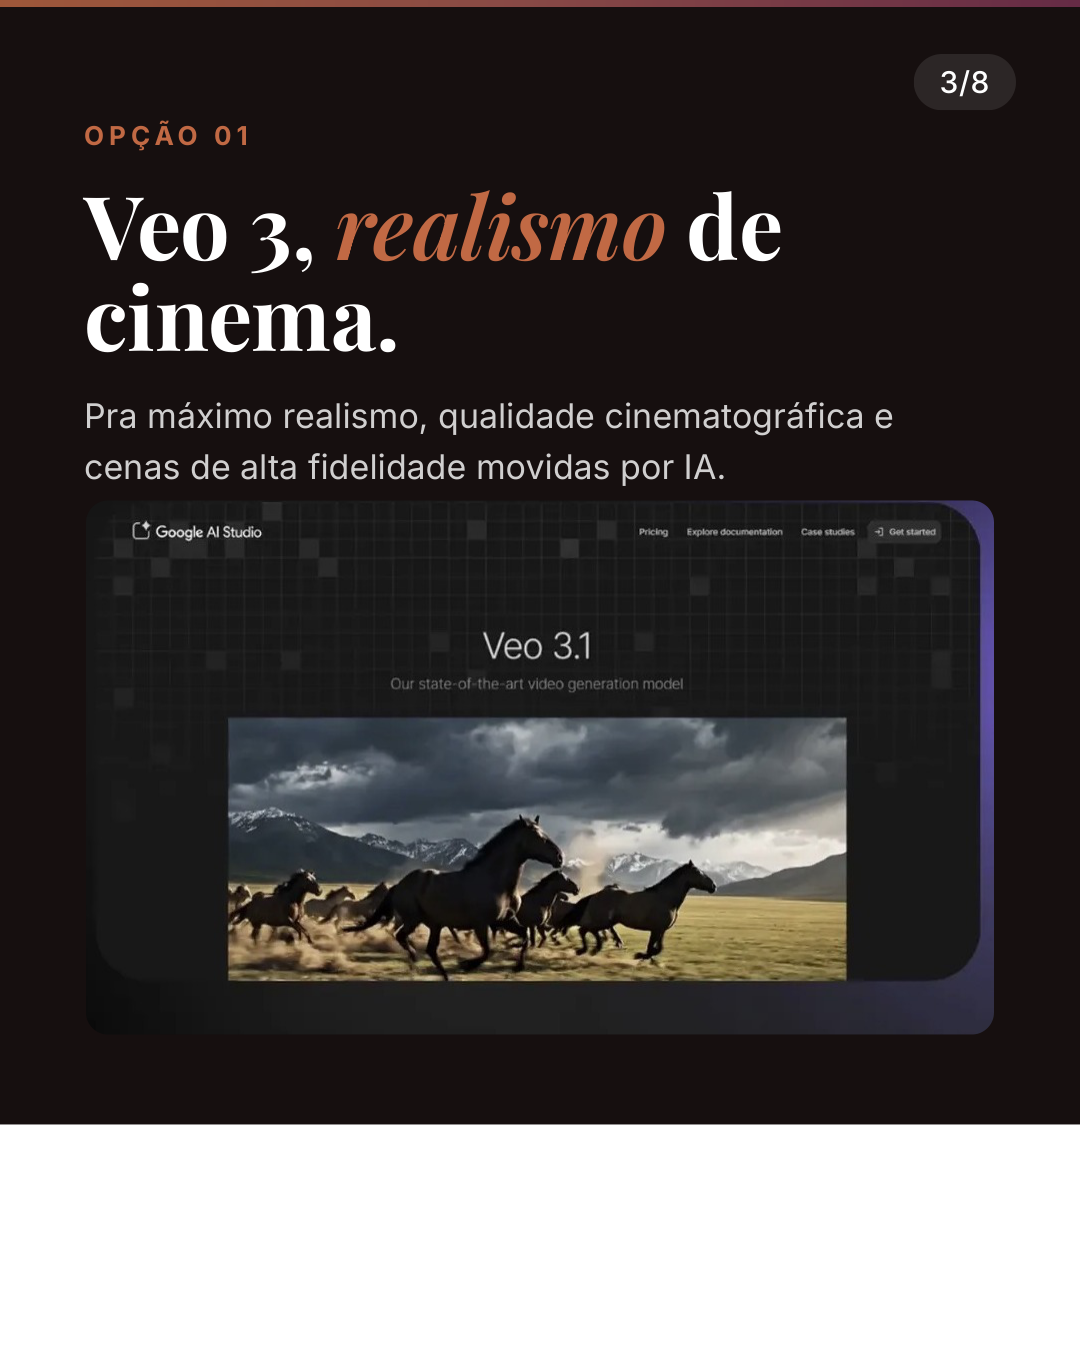
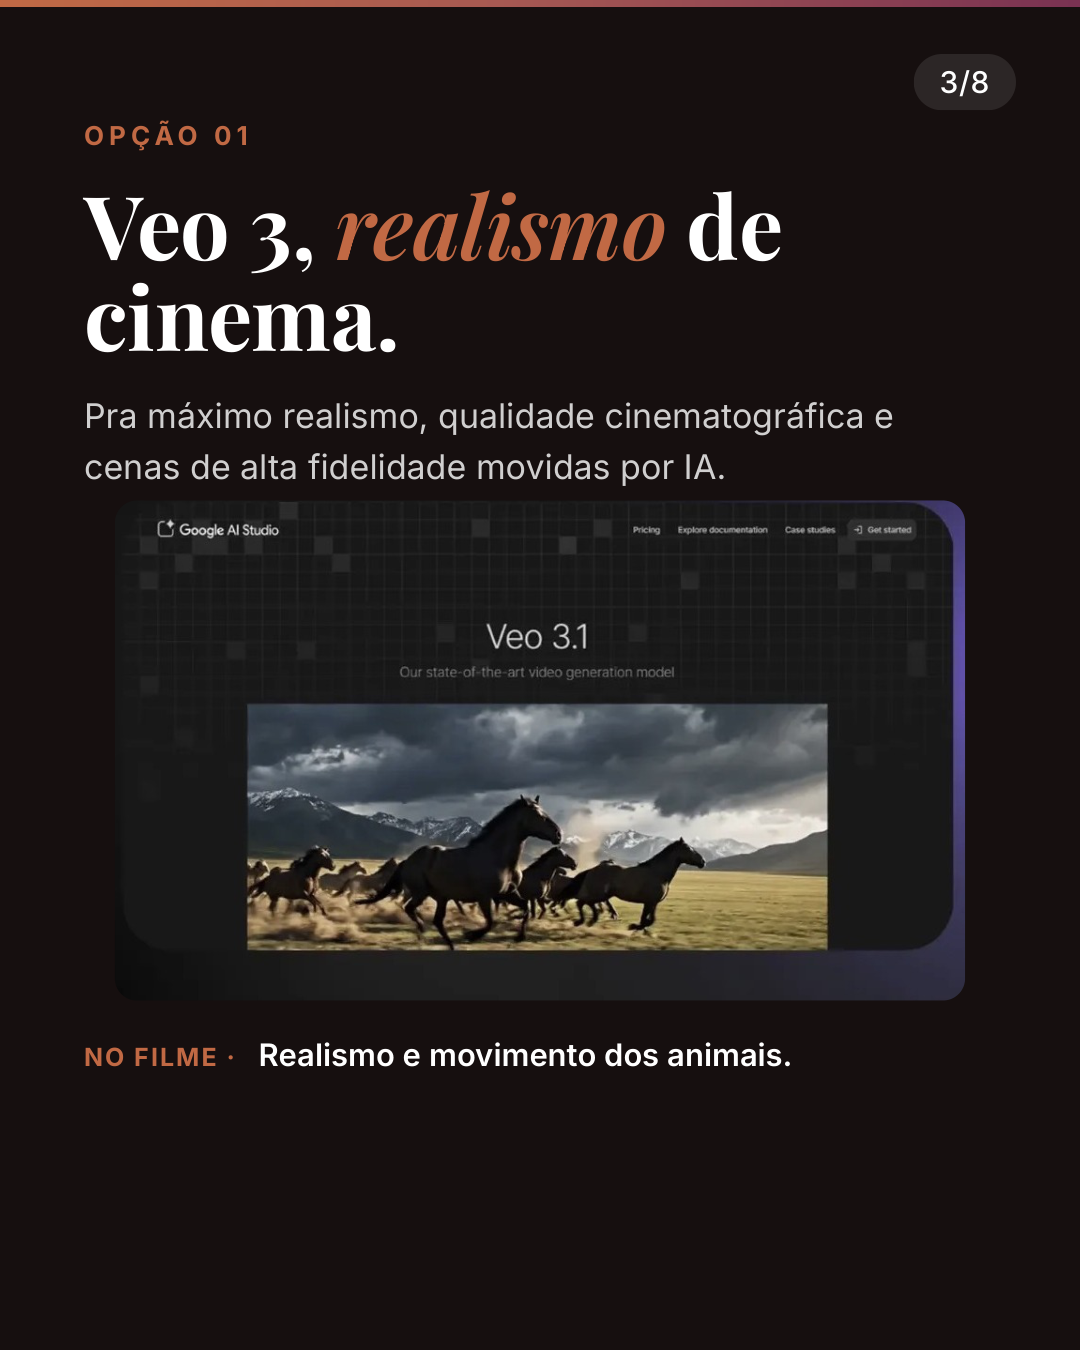
Fix white footer band on AI cards + add 'No filme' use-case line
- .content height:100% was overriding .slide height:1350px, leaving the
  page white showing at the bottom; removed it so cards fill black.
- Added a 'No filme' caption under each screenshot linking the AI's
  strength to a useful task in the movie (animais/interação/orçamento/
  câmera/ambientação).

diff --git a/carrossel-heman-ia/carrossel.html b/carrossel-heman-ia/carrossel.html
@@ -57,13 +57,18 @@
   .body b{color:#fff;font-weight:600;}
 
   /* ---------- CONTENT SLIDE LAYOUT ---------- */
-  .content{padding:120px 84px 90px;display:flex;flex-direction:column;height:100%;}
+  .content{padding:120px 84px 96px;display:flex;flex-direction:column;}
   .content .eyebrow{margin-bottom:26px;}
   .content .title{margin-bottom:30px;}
   .content .body{margin-bottom:8px;max-width:900px;}
   .shot{margin-top:auto;width:100%;display:flex;align-items:center;justify-content:center;}
-  .shot img{max-width:100%;max-height:560px;width:auto;border-radius:22px;
+  .shot img{max-width:100%;max-height:500px;width:auto;border-radius:22px;
     box-shadow:0 30px 70px rgba(0,0,0,.55);display:block;}
+  /* "no filme" use-case line under each screenshot */
+  .usecase{margin-top:34px;font-family:'Inter','Liberation Sans','Helvetica Neue',sans-serif;
+    font-size:31px;line-height:1.32;color:#fff;font-weight:600;}
+  .usecase b{color:var(--coral);font-weight:700;letter-spacing:2px;
+    text-transform:uppercase;font-size:25px;margin-right:14px;}
 
   /* ---------- TEXT-ONLY CONTEXT SLIDE ---------- */
   .context{padding:330px 88px 120px;}
@@ -128,6 +133,7 @@
     <h2 class="title">Veo 3, <span class="it">realismo</span> de cinema.</h2>
     <p class="body">Pra máximo realismo, qualidade cinematográfica e cenas de alta fidelidade movidas por IA.</p>
     <div class="shot"><img src="assets/veo3_crop.jpeg" alt="Veo 3"></div>
+    <p class="usecase"><b>No filme &middot;</b> Realismo e movimento dos animais.</p>
   </section>
 
   <!-- 4 — SORA 2 -->
@@ -137,6 +143,7 @@
     <h2 class="title">Sora 2, alta <span class="it">fidelidade</span>.</h2>
     <p class="body">Uma das melhores escolhas pra máximo realismo e qualidade cinematográfica &mdash; cenas de IA com física que convence.</p>
     <div class="shot"><img src="assets/sora2_crop.jpeg" alt="Sora 2"></div>
+    <p class="usecase"><b>No filme &middot;</b> Interação dos personagens humanos com os de computação gráfica.</p>
   </section>
 
   <!-- 5 — KLING 2.6 -->
@@ -146,6 +153,7 @@
     <h2 class="title">Kling 2.6, realismo por <span class="it">menos</span>.</h2>
     <p class="body">Excelente pra alto realismo a um custo menor. O <b>Nframe</b> define os frames de início e fim &mdash; ideal pra projetos profissionais e experimentais.</p>
     <div class="shot"><img src="assets/kling_crop.jpeg" alt="Kling 2.6"></div>
+    <p class="usecase"><b>No filme &middot;</b> O mesmo das outras &mdash; enxugando o orçamento da produção.</p>
   </section>
 
   <!-- 6 — RUNWAY -->
@@ -155,6 +163,7 @@
     <h2 class="title">Runway, controle <span class="it">criativo</span>.</h2>
     <p class="body">A melhor pra controle criativo avançado: <b>Multi-Motion Brush</b> e movimentos de câmera precisos &mdash; pan, tilt e zoom.</p>
     <div class="shot"><img src="assets/runway_crop.jpeg" alt="Runway Gen 4.5"></div>
+    <p class="usecase"><b>No filme &middot;</b> Giro e movimento de câmera nas cenas de ação.</p>
   </section>
 
   <!-- 7 — SEEDANCE -->
@@ -164,6 +173,7 @@
     <h2 class="title">Seedance 2.0, vídeo <span class="it">com som</span>.</h2>
     <p class="body">Gera vídeo e áudio juntos, até <b>2K</b> e multi-shot, mantendo o personagem consistente com até <b>12 referências</b> numa cena só.</p>
     <div class="shot"><img src="assets/seedance_crop.jpeg" alt="Seedance 2.0"></div>
+    <p class="usecase"><b>No filme &middot;</b> Ambientação dos personagens em cada cenário.</p>
   </section>
 
   <!-- 8 — CTA -->
